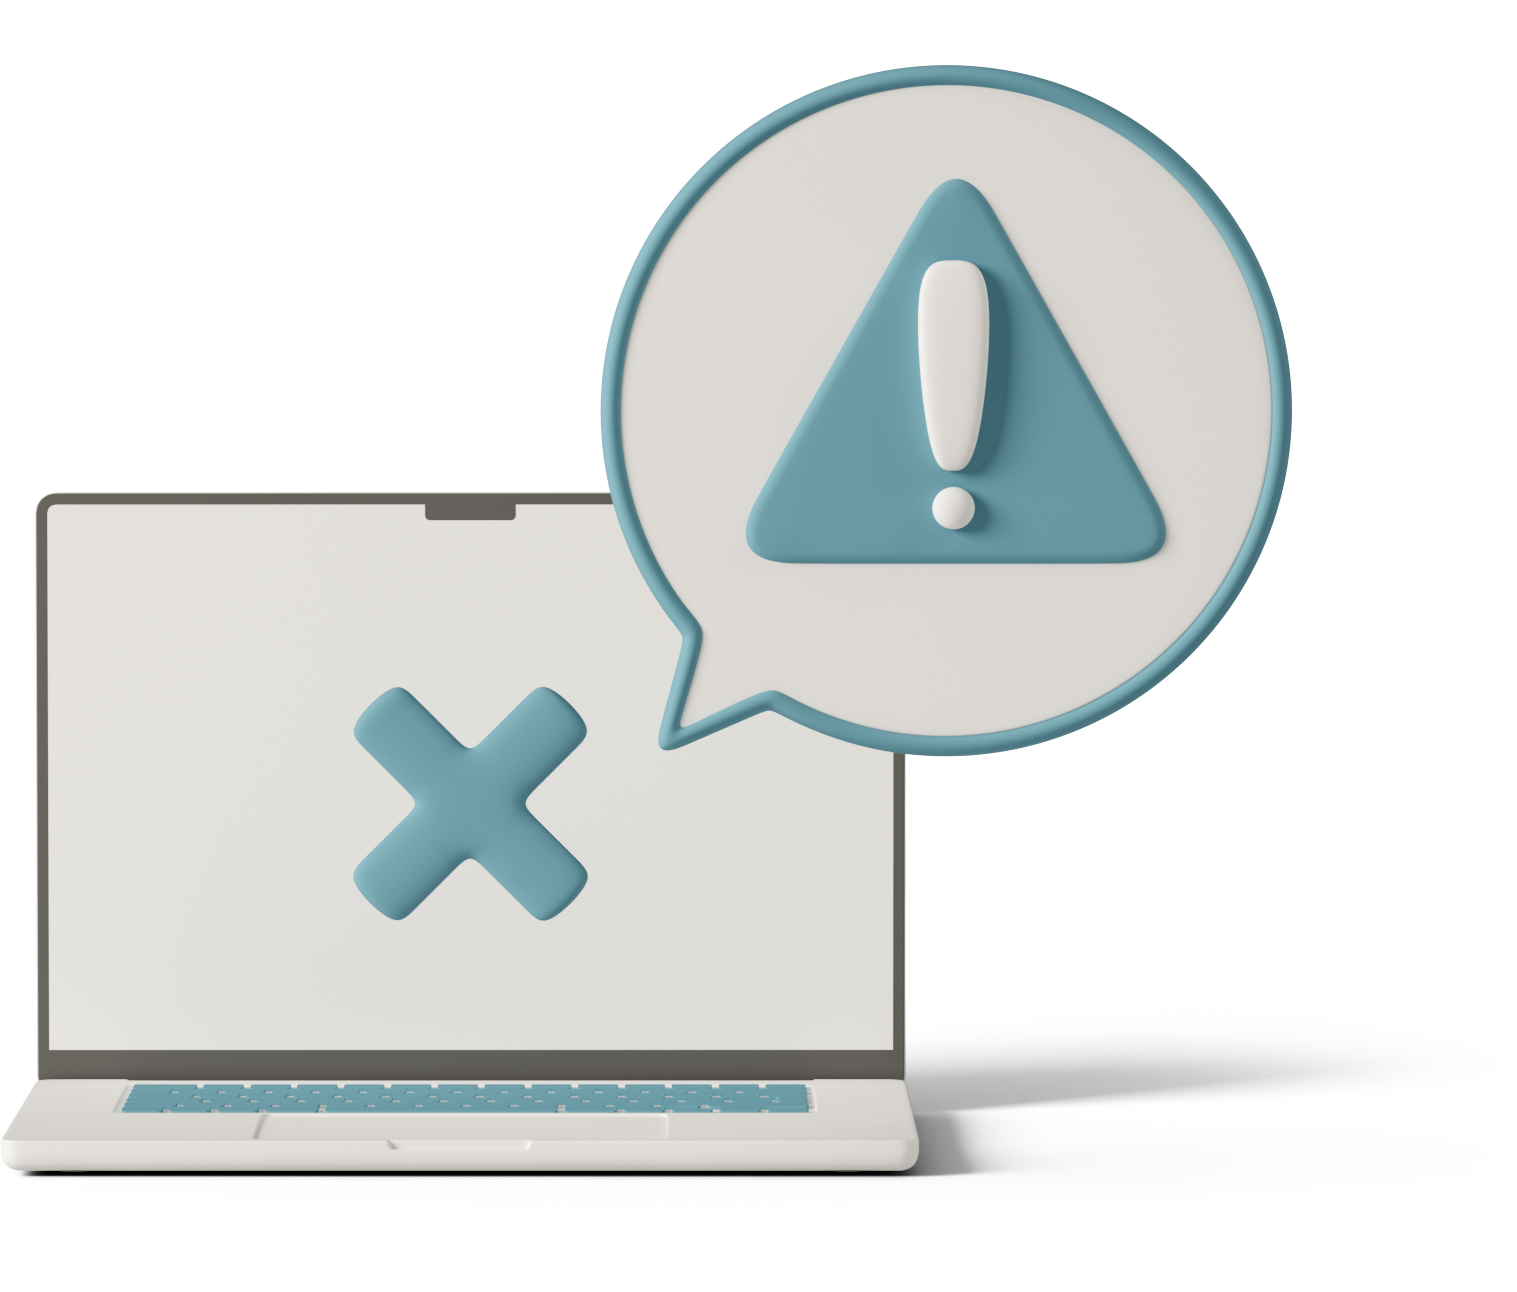
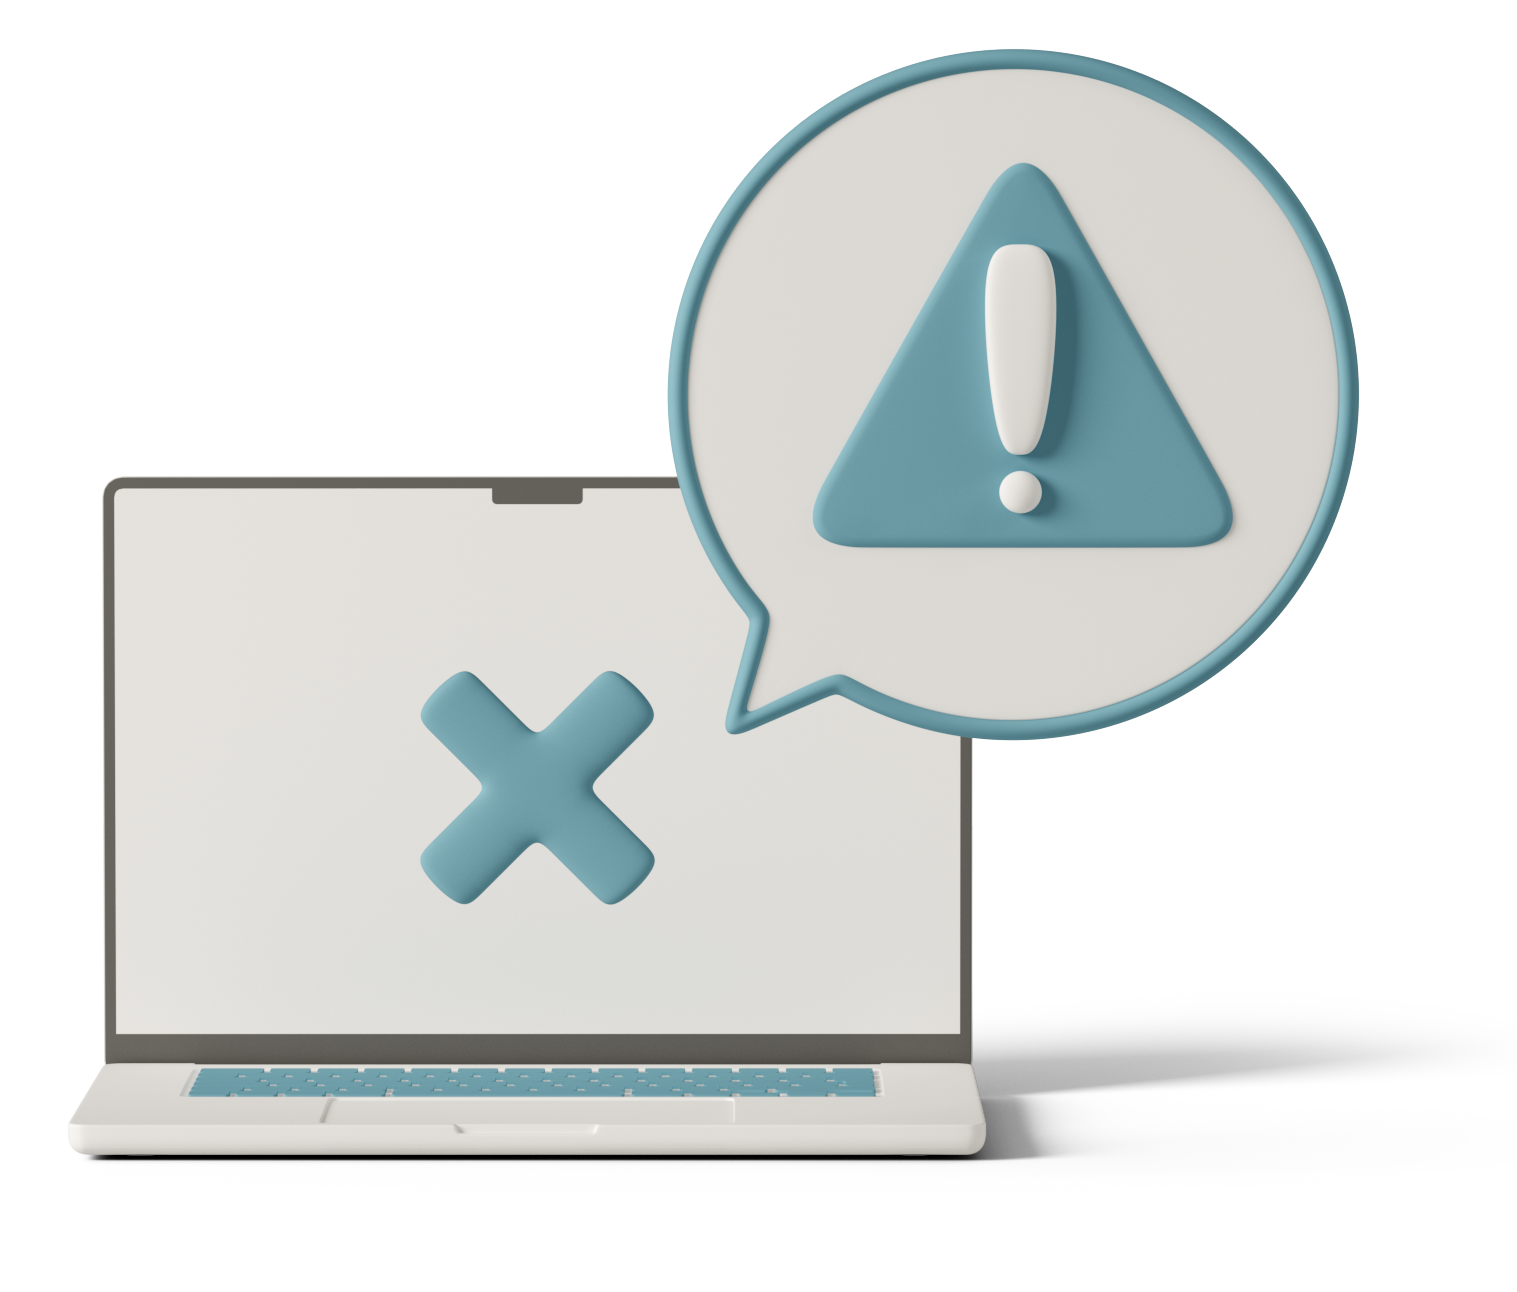
mobile tweaks

Changed region(s): [[0.0, 0.031, 0.8985, 0.9288]]

diff --git a/src/sections/halfPage.css b/src/sections/halfPage.css
@@ -48,12 +48,14 @@
 
 @media screen and (max-width: 1024px) {
   .section {
-    height: 100vh;
+    height: fit-content;
     width: 100vw;
+    padding-bottom: 5rem;
   }
 
   .sectionContainer {
-    flex-direction: column;
+    flex-direction: column-reverse;
+    justify-content: flex-end;
     height: calc(100% - 4rem);
     width: calc(100% - 6rem);
     padding: 2rem 3rem;
@@ -74,11 +76,17 @@
   }
 
   .right {
-    flex-direction: column-reverse;
+    flex-direction: column;
+    justify-content: flex-start;
 
     .sectionText {
       text-align: left;
       margin: 0;
     }
+  }
+
+  .titleSection {
+    flex-direction: column-reverse;
+    justify-content: flex-end;
   }
 }

diff --git a/src/sections/Links.css b/src/sections/Links.css
@@ -49,3 +49,31 @@
   text-align: center;
   font-size: 0.8rem;
 }
+
+@media screen and (max-width: 1024px) {
+  .linksSection {
+    flex-direction: column;
+    justify-content: space-between;
+  }
+
+  .linksText {
+    padding: 3rem 0 0 5vw;
+  }
+
+  .linksImageContainer {
+    height: fit-content;
+    width: 100%;
+    display: flex;
+    flex-direction: column;
+    justify-content: flex-end;
+  }
+
+  .linksImage {
+    height: 100%;
+  }
+
+  .footer {
+    margin: 0;
+    padding-bottom: 0.5rem;
+  }
+}

diff --git a/src/sections/ProjectsTitle.tsx b/src/sections/ProjectsTitle.tsx
@@ -5,7 +5,7 @@ import ProjectsImage from '../assets/3d-casual-life-business-woman-working-on-la
 export function ProjectsTitle() {
   return (
     <div className="section">
-      <div className="sectionContainer right">
+      <div className="sectionContainer right titleSection">
         <div className="sectionImageContainer">
           <img
             src={ProjectsImage}

diff --git a/src/sections/Projects.css b/src/sections/Projects.css
@@ -11,6 +11,7 @@
   flex-direction: row;
   align-items: center;
   justify-content: flex-end;
+  flex-wrap: wrap;
   padding-bottom: 1rem;
 
   .sectionTitle {
@@ -35,6 +36,7 @@
 @media screen and (max-width: 1024px) {
   .projectsTitle {
     width: 100%;
+    padding-bottom: 3rem;
   }
 
   .titleWithIcon.wnwn {

diff --git a/src/sections/fullPage.css b/src/sections/fullPage.css
@@ -8,3 +8,11 @@
   width: calc(100% - 12rem);
   padding: 6rem;
 }
+
+@media screen and (max-width: 1024px) {
+  .fullPageContainer {
+    height: calc(100% - 4rem);
+    width: calc(100% - 6rem);
+    padding: 2rem 3rem;
+  }
+}

diff --git a/src/sections/Header.css b/src/sections/Header.css
@@ -39,11 +39,12 @@
   }
 
   .title {
+    padding-top: 5rem;
     position: inherit;
   }
 
   .name {
-    font-size: 3.5rem;
+    font-size: 2.5rem;
   }
 
   .subtitle {
